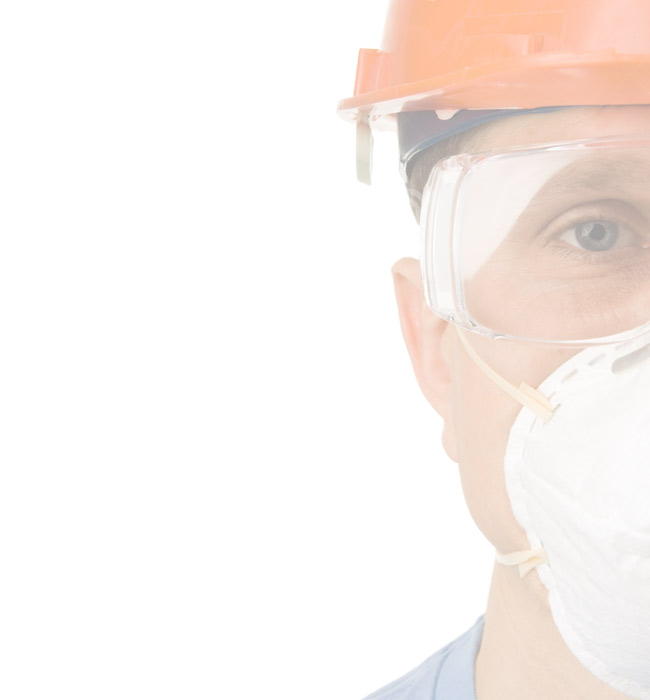
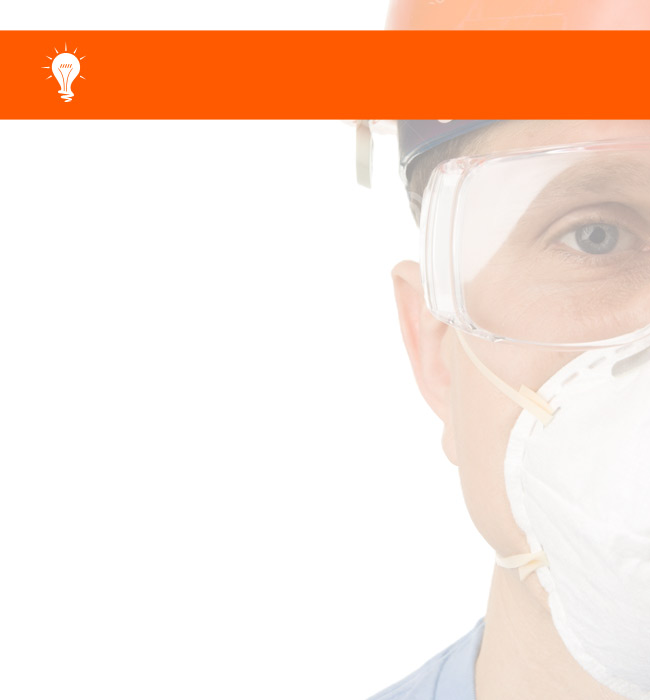
Quiz ppe additional features

diff --git a/_include/iframe/myPPEQuiz/index.html b/_include/iframe/myPPEQuiz/index.html
@@ -8,8 +8,9 @@
 	</head>
 	<body>
 
-		<div id="myQuiz" ng-controller="QuizController" 
-      ng-style="{'background-image':'url(' + myQuestions[activeQuestion + 1].background + ')'}">
+		<div id="myQuiz" ng-controller="QuizController">
+		<div>
+<!--      <div ng-style="{'background-image':'url(' + myQuestions[activeQuestion + 1].questionImage + ')'}"></div>-->
        
 
 				<h1>Test Your Knowledge: <span>Personal protective equipment</span></h1>
@@ -17,27 +18,33 @@
 					<div class="
 				    {{($index === activeQuestion) ? 'on' : 'off'}}
 				    {{(q.questionState === 'answered') ? 'answered' : 'unanswered'}} 
-				    {{(q.correctness === 'correct') ? 'correct' : 'incorrect'}}  
+				    {{(q.correctness === 'correct') && (q.questionState === 'answered') ? 'correct' : 'incorrect'}}  
 				      
 					" ng-repeat="q in myQuestions"></div>
 				</div>
 				<div class="intro {{(activeQuestion > -1) ? 'inactive' : 'active'}}">
 					<h2>PPE Quiz</h2>
 					<img src="./images/intro.png" alt="">
-					<p>This course was designed to highlight the type, selection and use of PPE items in the workplace and the benefits and limitations of PPE.</p>
+					<p>This course was designed to highlight the type, selection and use of PPE items in the workplace and the benefits and limitations of PPE. You must score greater than <strong>{{passRate}}%</strong> to pass.</p>
 					
 					<p>Click begin to test your knowledge of PPE </p>
 					<p class="btn" ng-click="activeQuestion = 0">Begin</p>
+					
+					
 				</div>
 				<div class="question 
 					{{ $index === activeQuestion ? 'active' : 'inactive'}}
                     {{  q.questionState === 'answered' ? 'answered' : 'unanswered'}}
 				" ng-repeat="q in myQuestions">
-					<p class="txt">{{q.question}}</p>
+				    <div class="qImage">
+				        <img ng-src="{{q.questionImage}}" alt="">
+				    </div>
+					<p class="txt" ng-style="{ 'margin-top' : setMarginTop(q.question.length) }">{{q.question}}</p>
 					<p class="ans"
                     ng-class="{ image: Answer.image,
-                                selected: isSelected($parent.$index, $index), 
-                                correct: isCorrect($parent.$index, $index)}"
+                                selected: isSelected($parent.$index, $index) && (q.questionState === 'answered'), 
+                                correct: isCorrect($parent.$index, $index) && (q.questionState === 'answered')
+                              }"
                     ng-style="{'background-image':'url({{Answer.image}})'}"
 					ng-click="selectAnswer($parent.$index, $index)" 
 					ng-repeat="Answer in myQuestions[$index].answers">
@@ -53,14 +60,28 @@
 					</div>
 				</div>
 				<div class="results {{(totalQuestions === activeQuestion) ? 'active' : 'inactive'}}">
-					<h3>Results</h3>
-					<p>You scored {{percentage}}% by correctly answering {{score}} of the total {{totalQuestions}} questions</p>
-					<p>Use the links below to challange your friends</p>
+					<h3>Results - 
+					    <span ng-show="percentage >= passRate">Pass</span>
+					    <span ng-show="percentage < passRate">Fail</span> 
+					</h3>
+
+				
+				
+					
+					<p>You scored {{percentage}}% by correctly answering<br>{{score}} of the total {{totalQuestions}} questions </p>
+					<a ng-show="percentage < passRate" href="#" class="btn retake" ng-click="resetQuiz()">Retake</a>
+<!--					<p>Use the links below to challange your friends</p>-->
 					<div class="share" ng-bind-html="createShareLinks(percentage)">
+                        
+                        <a href="#" class="btn twitter">Tweet</a>
 <!--
 						<a href="#" class="btn email">Email</a>
 						<a href="#" class="btn twitter">Tweet</a>
 -->
+					</div>
+					<div ng-style="{'margin-top': '45px'}">
+                        <img src="./images/ppe_pass.png" alt="" ng-show="percentage >= passRate">
+                        <img src="./images/ppe_fail.png" alt="" ng-show="percentage < passRate">
 					</div>
 				</div>
 				<div ng-style="{'background-image':'url(' + myQuestions[activeQuestion + 1].background + ')'}" style="width:300px; height:200px"></div>

diff --git a/_include/iframe/myPPEQuiz/js/quiz.js b/_include/iframe/myPPEQuiz/js/quiz.js
@@ -8,6 +8,8 @@
 	 	$scope.activeQuestion = -1;
 	 	$scope.activeQuestionAnswered = 0;
 	 	$scope.percentage = 0;
+        $scope.passRate = 60;
+       
 
 	 	$http.get('quiz_data.json').then(function(quizData){
 	 		
@@ -15,6 +17,22 @@
 			$scope.totalQuestions = $scope.myQuestions.length;
             
         });
+         
+         $scope.setMarginTop = function(stringSize){
+         
+             $scope.marginTop = '-98px';
+             
+            if(stringSize > 51){
+                $scope.marginTop = '-105px';
+            }
+             
+            if(stringSize > 102){
+                $scope.marginTop = '-116px';
+            }
+             
+             return $scope.marginTop;
+         }
+         
          
 
 	 	$scope.selectAnswer = function(qIndex, aIndex){
@@ -55,12 +73,42 @@
         }
         
         $scope.selectContinue = function(){
+            
+            if($scope.activeQuestion === $scope.totalQuestions-1){
+                $scope.showNavButtons();
+            }
+            
             return $scope.activeQuestion +=1;
-            $scope.updateBgImage();
         }
         
-        $scope.updateBgImage = function(){
+        $scope.showNavButtons = function(){
+            parent.$.fancybox.showNavButtons();
+        }
+        
+        $scope.resetQuiz = function(){
+            $scope.score = 0;
+            $scope.activeQuestion = -1;
+            $scope.activeQuestionAnswered = 0;
+            $scope.percentage = 0;
             
+            
+       
+            var log = [];
+            
+            angular.forEach($scope.myQuestions, function(value, key) {
+            //this.questionState = '';
+              this.push(key + ': ' + value.questionState);
+              value.questionState = '';
+            }, log);
+            
+            console.log(log);
+           
+            // expect(log).toEqual(['name: misko', 'gender: male']);
+            
+
+       //$scope.myQuestions[qIndex].questionState = 'answered';
+            
+
         }
         
         
@@ -70,15 +118,15 @@
         
         
         
-        $scope.createShareLinks = function(percentage){
-            var url = 'http://codifydesign.com';
-            
-            var emailLink = '<a class="btn email" href="mailto:?subject=Try to beat my quiz score!&amp;body=I scored '+percentage+'% on this quiz. Try to beat my score at '+url+'">Email a friend</a>';
-            var twitterLink = '<a class="btn twitter" href="http://twitter.com/share?text=I scored '+percentage+'% on this quiz. Try to beat my score at&amp;hashtags=Quiz&amp;url='+url+'" target="_blank">Tweet your score</a>';
-            var newMarkup = emailLink + twitterLink;
-            
-            return $sce.trustAsHtml(newMarkup);
-        }
+//        $scope.createShareLinks = function(percentage){
+//            var url = 'http://codifydesign.com';
+//            
+//            var emailLink = '<a class="btn email" href="mailto:?subject=Try to beat my quiz score!&amp;body=I scored '+percentage+'% on this quiz. Try to beat my score at '+url+'">Email a friend</a>';
+//            var twitterLink = '<a class="btn twitter" href="http://twitter.com/share?text=I scored '+percentage+'% on this quiz. Try to beat my score at&amp;hashtags=Quiz&amp;url='+url+'" target="_blank">Tweet your score</a>';
+//            var newMarkup = emailLink + twitterLink;
+//            
+//            return $sce.trustAsHtml(newMarkup);
+//        }
 
 
 	 }]);

diff --git a/_include/iframe/myPPEQuiz/css/quiz.css b/_include/iframe/myPPEQuiz/css/quiz.css
@@ -9,33 +9,46 @@ body { background-color: #fff; padding: 0px; margin:0px;}
    position:relative;
    overflow:hidden;
    color:#000;
-/*   background: #000 url(../images/bg_01.jpg) no-repeat 0px 0px;*/
+   background: #000 url(../images/background.jpg) no-repeat 0px 0px;
 /*       background: no-repeat 0px 0px;*/
 }
 
 #myQuiz h1{
-	font-weight: 100;
+/*	font-weight: 100;*/
 	font-size:2em;
-	text-transform:uppercase;
+/*	text-transform:uppercase;*/
 	margin:0px;
 	position:absolute;
 	top:40px;
-	left:36px;
+	left:100px;
 /*    background: rgba(54, 25, 25, .5);*/
     padding:8px;
-    opacity:0.8;
+/*    opacity:0.8;*/
+    color:#fff;
 }
 
 #myQuiz h1 span{
     display: block;
-    font-weight: 300;
-    font-family: 'Titillium Web', sans-serif;
-    font-size: 1.1em;
-    line-height: 25px;
+    font-weight: 100;
+/*    font-family: 'Titillium Web', sans-serif;*/
+    font-size: 0.6em;
+    line-height: 20px;
+    color: #ffe533;
+    font-weight: normal;
 }
 
-#myQuiz h2 {font-size: 3em; margin: 0px; font-weight:100;}
-#myQuiz h3 {font-size: 2.4em; margin: 0px; font-weight:100;}
+#myQuiz h2 {
+    font-size: 2em;
+    margin: 0px;
+    /* font-weight: 100; */
+    color: #ff5a00;
+}
+#myQuiz h3 {
+    font-size: 1.4em; 
+    margin: 10px 0px 10px 0px;
+    color: #ff5a00;
+/*    font-weight:100;*/
+}
 #myQuiz p {margin: 0px 0px 14px 0px;}
 #myQuiz .btn{
 	display:inline-block; cursor:pointer; background-color:#ff5a00;
@@ -88,17 +101,26 @@ body { background-color: #fff; padding: 0px; margin:0px;}
 
 /* Questions */
 #myQuiz .question{width:550px; position:absolute; top:225px; left:660px;} 
-#myQuiz .question .txt{font-size: 1.6em; margin: 0px 0px 20px 0px;} 
+#myQuiz .question .txt {
+    font-size: 1em;
+    margin: 0px 0px 60px 0px;
+    background-color: rgba(95, 193, 234, .9);
+    color: #fff;
+    padding: 15px 15px 15px 150px;
+    margin-left: 10px;
+    border-radius: 12px;
+    margin-top: -97px;
+}
 #myQuiz .question .ans{
 	display: inline-block;
-	font-size:1.1em;
+	font-size:1em;
 	width:100%;
-	border:2px solid rgba(238, 189, 102, .4);
-	border-radius: 6px; padding:10px; margin:0px 15px 15px 0px; position:relative;
+	border:2px solid rgba(255,90,0, .4);
+	border-radius: 6px; padding:10px; margin:0px 10px 10px 0px; position:relative;
 
 }
 
-#myQuiz .question .ans.selected{border-color:#be4b16;}
+#myQuiz .question .ans.selected{border-color:#EA1303;}
 #myQuiz .question .ans.correct{border-color:#459a2e;}
 
 #myQuiz .question .ans::after{
@@ -112,7 +134,7 @@ body { background-color: #fff; padding: 0px; margin:0px;}
 #myQuiz .question .ans.correct::after{background-image: url(../images/icon_correct.svg);}
 
 #myQuiz .question.unanswered .ans{cursor:pointer;}
-#myQuiz .question.unanswered .ans:hover{background-color: rgba(238,189,102,.2);}
+#myQuiz .question.unanswered .ans:hover{background-color: rgba(255,90,0,.2);}
 
 #myQuiz .question.answered .ans:hover{cursor:default;}
 
@@ -168,6 +190,10 @@ body { background-color: #fff; padding: 0px; margin:0px;}
 
 #myQuiz .intro.inactive, #myQuiz .intro.inactive.answered{left: -1350px;}
 
+#myQuiz .results a.btn.retake{
+    font-size: 0.7em;
+    background-color:#59adeb;
+}
 /*
 @media screen and (max-width: 650px){
     body{padding:0px; margin:0px}

diff --git a/index.html b/index.html
@@ -514,9 +514,9 @@
                                     <img src="_include/img/work/thumbs/interactive_3d.jpg" alt="This is text for sortable">
                                 </li>
                                 
-                                <li class="item-thumbs span3 interactive">
+                                <li class="item-thumbs span3 interactive hideNavButtons">
                                     <!-- Fancybox - Gallery Enabled - Title - Full Image -->
-                                    <a class="hover-wrap fancybox-iframe" data-fancybox-group="interactive" data-fancybox-type="iframe" data-width="650" data-height="700" title="Angjularjs" href="_include/iframe/myQuiz/index.html">
+                                    <a class="hover-wrap fancybox-iframe" data-fancybox-group="interactive" data-fancybox-type="iframe" data-width="650" data-height="700" title="Angjularjs" href="_include/iframe/myPPEQuiz/index.html">
                                         <span class="overlay-img"></span>
                                         <span class="overlay-img-thumb font-icon-plus"></span>
                                     </a>
